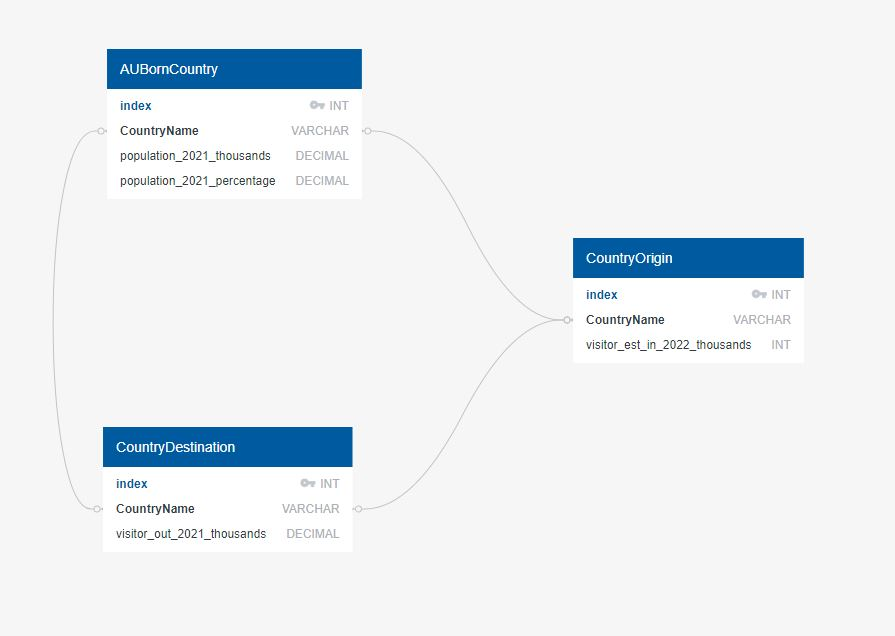
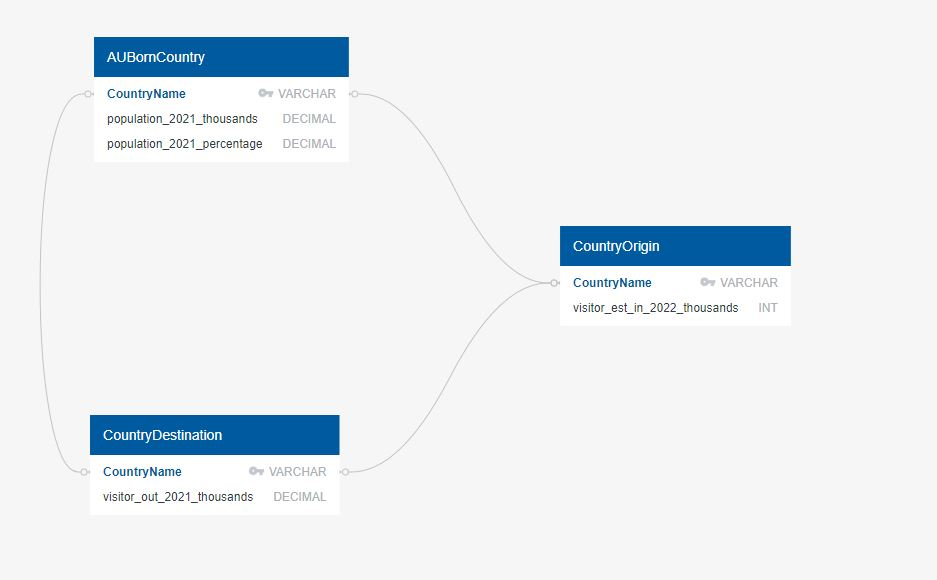
updated

Changed region(s): [[0.0905, 0.0621, 0.4223, 0.3103], [0.0905, 0.6517, 0.3922, 0.869], [0.5732, 0.3724, 0.905, 0.5586]]

diff --git a/run_etl.py b/run_etl.py
@@ -18,7 +18,7 @@ population_df.rename(columns={"Unnamed: 0_level_0_Country of birth(b)":"countryn
 population = population_df[["countryname","population_2021_thousands","population_2021_percentage"]].iloc[:20] 
 
 # Load it into database
-population.to_sql(name="auborncountry", con=engine,if_exists="append",index=True)
+population.to_sql(name="auborncountry", con=engine,if_exists="append",index=False)
 
 # load the survey data
 path_int = "Resource/International_survey.xlsx"
@@ -30,9 +30,9 @@ in_visitor_df.columns = ["_".join(col) for col in in_visitor_df.columns.values]
 in_visitor_df.rename(columns={"Country of_residence":"countryname",
                               "Visitors_Year ending March 2022":"visitor_est_in_2022_thousands"},inplace=True)
 in_visitor = in_visitor_df[["countryname","visitor_est_in_2022_thousands"]]
-in_visitor["visitor_est_in_2022_thousands"] = in_visitor["visitor_est_in_2022_thousands"]/1000
+in_visitor.loc[:,"visitor_est_in_2022_thousands"] = in_visitor["visitor_est_in_2022_thousands"]/1000
 
-in_visitor.to_sql(name="countryorigin", con=engine,if_exists="append",index=True)
+in_visitor.to_sql(name="countryorigin", con=engine,if_exists="append",index=False)
 
 # load the survey data
 path_nat = "Resource/National_survey.xlsx"
@@ -47,4 +47,4 @@ out_visitor = out_visitor_df[["countryname","visitor_est_out_2021_thousands"]]
 out_visitor = out_visitor.loc[out_visitor["visitor_est_out_2021_thousands"]!="np"]
 out_visitor["visitor_est_out_2021_thousands"] = out_visitor["visitor_est_out_2021_thousands"].astype(float)
 
-out_visitor.to_sql(name="countrydestination", con=engine,if_exists="append",index=True)
+out_visitor.to_sql(name="countrydestination", con=engine,if_exists="append",index=False)
